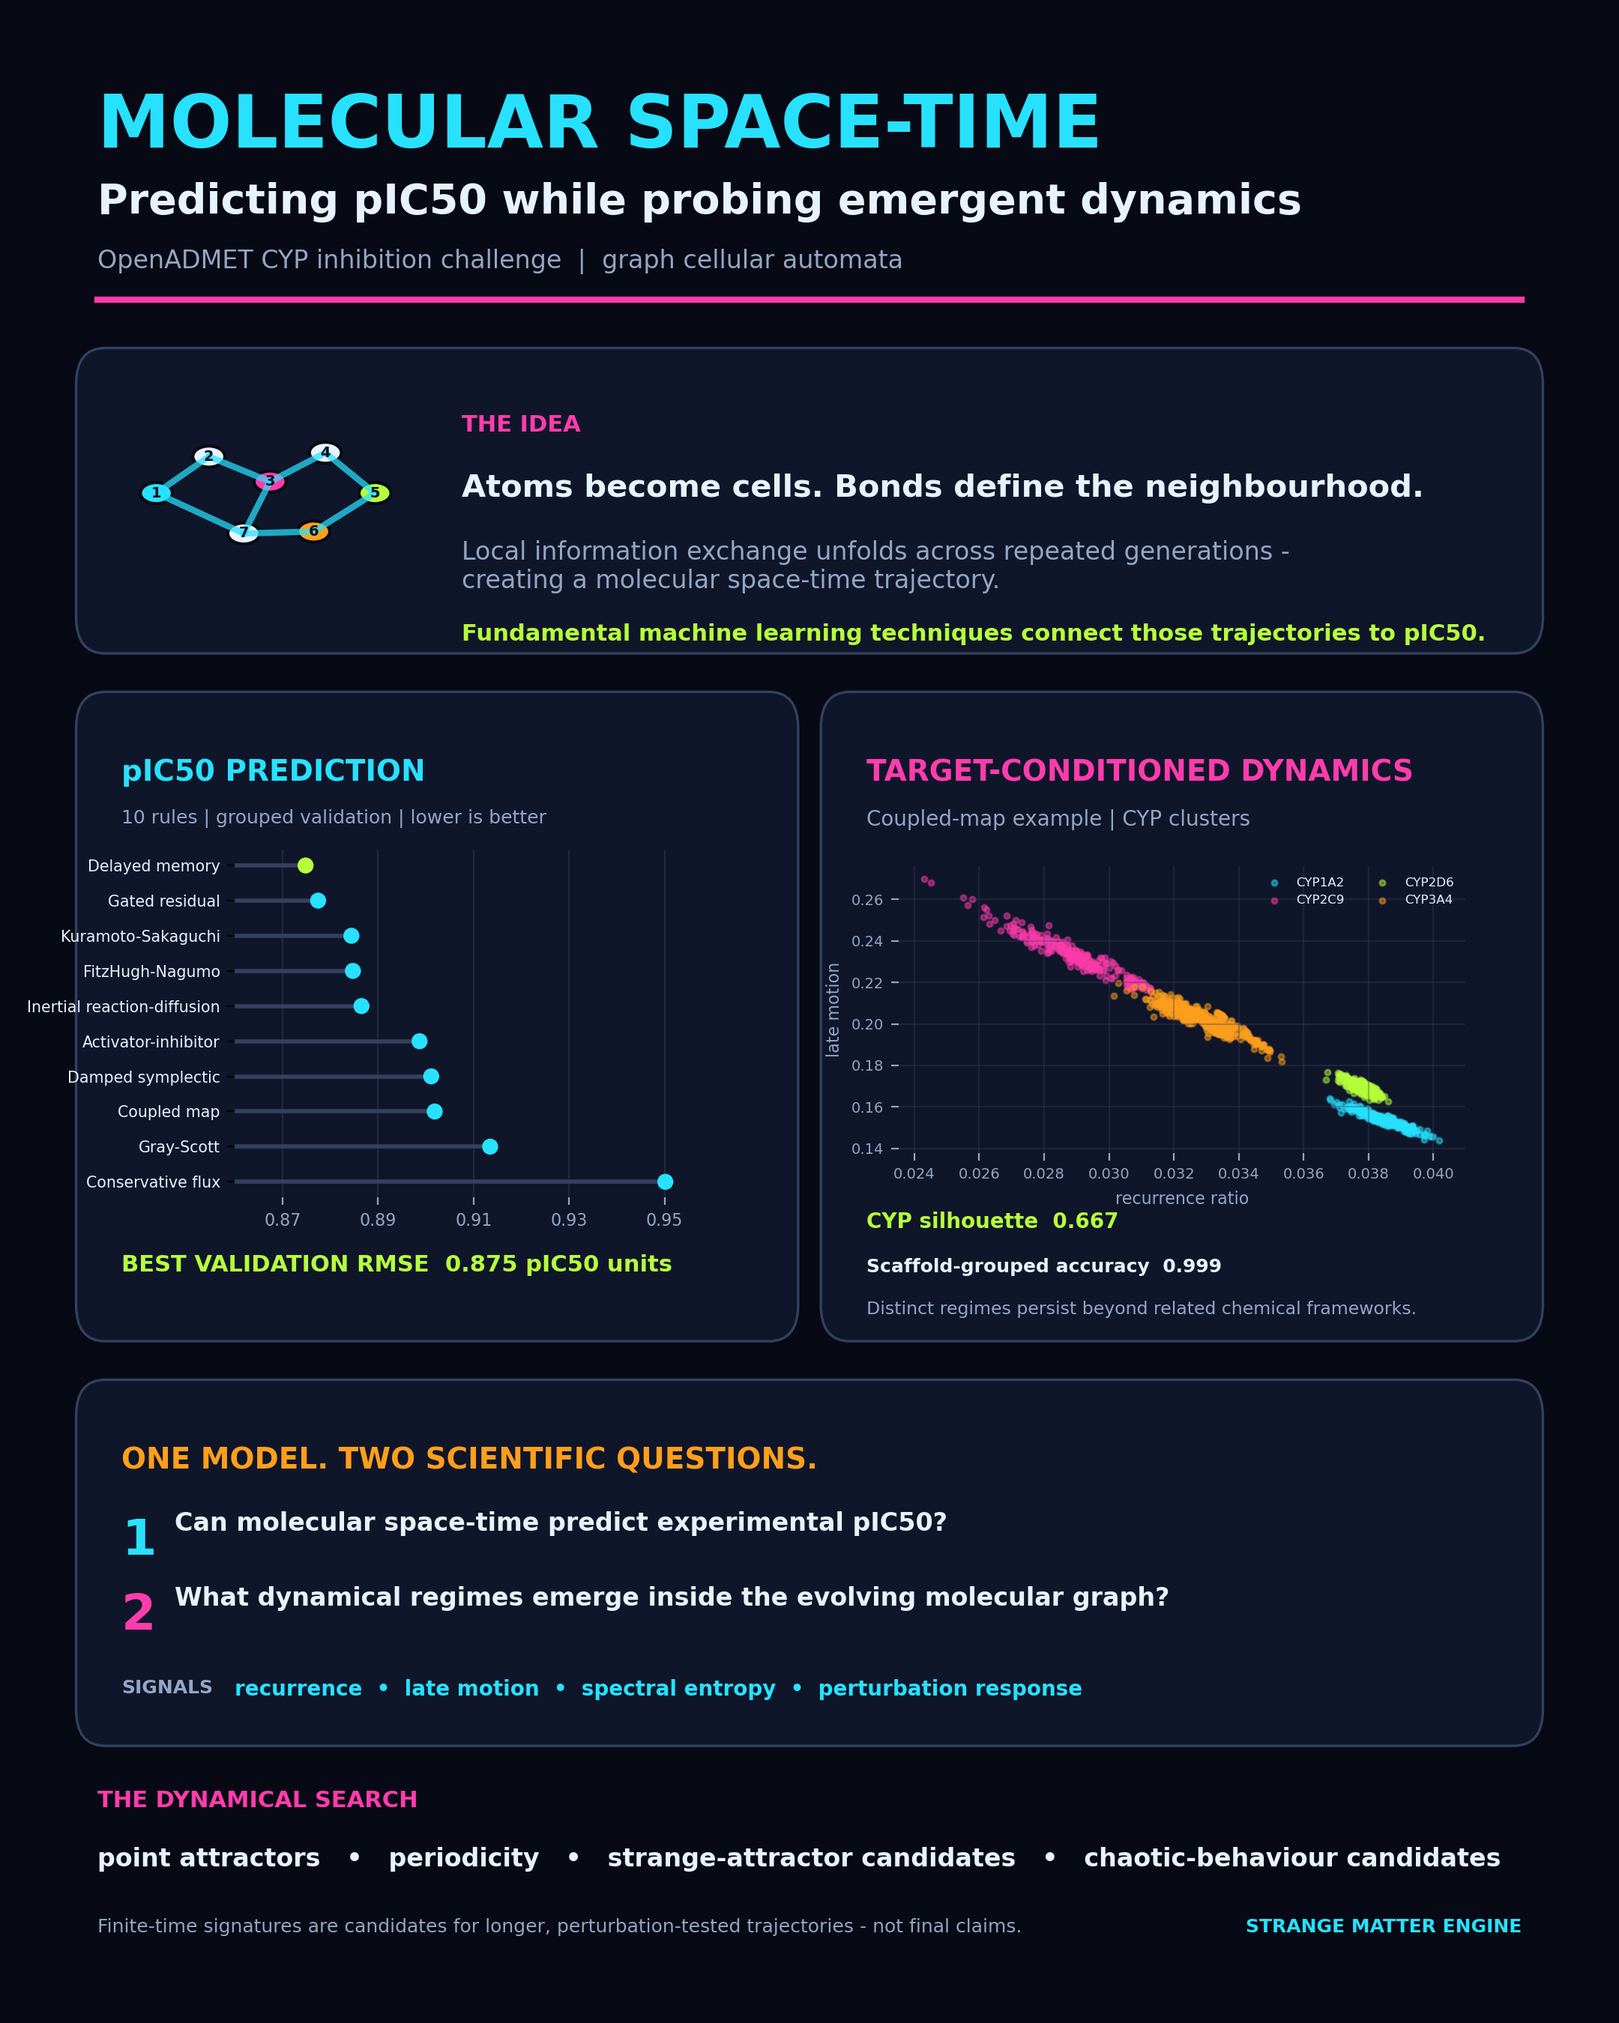
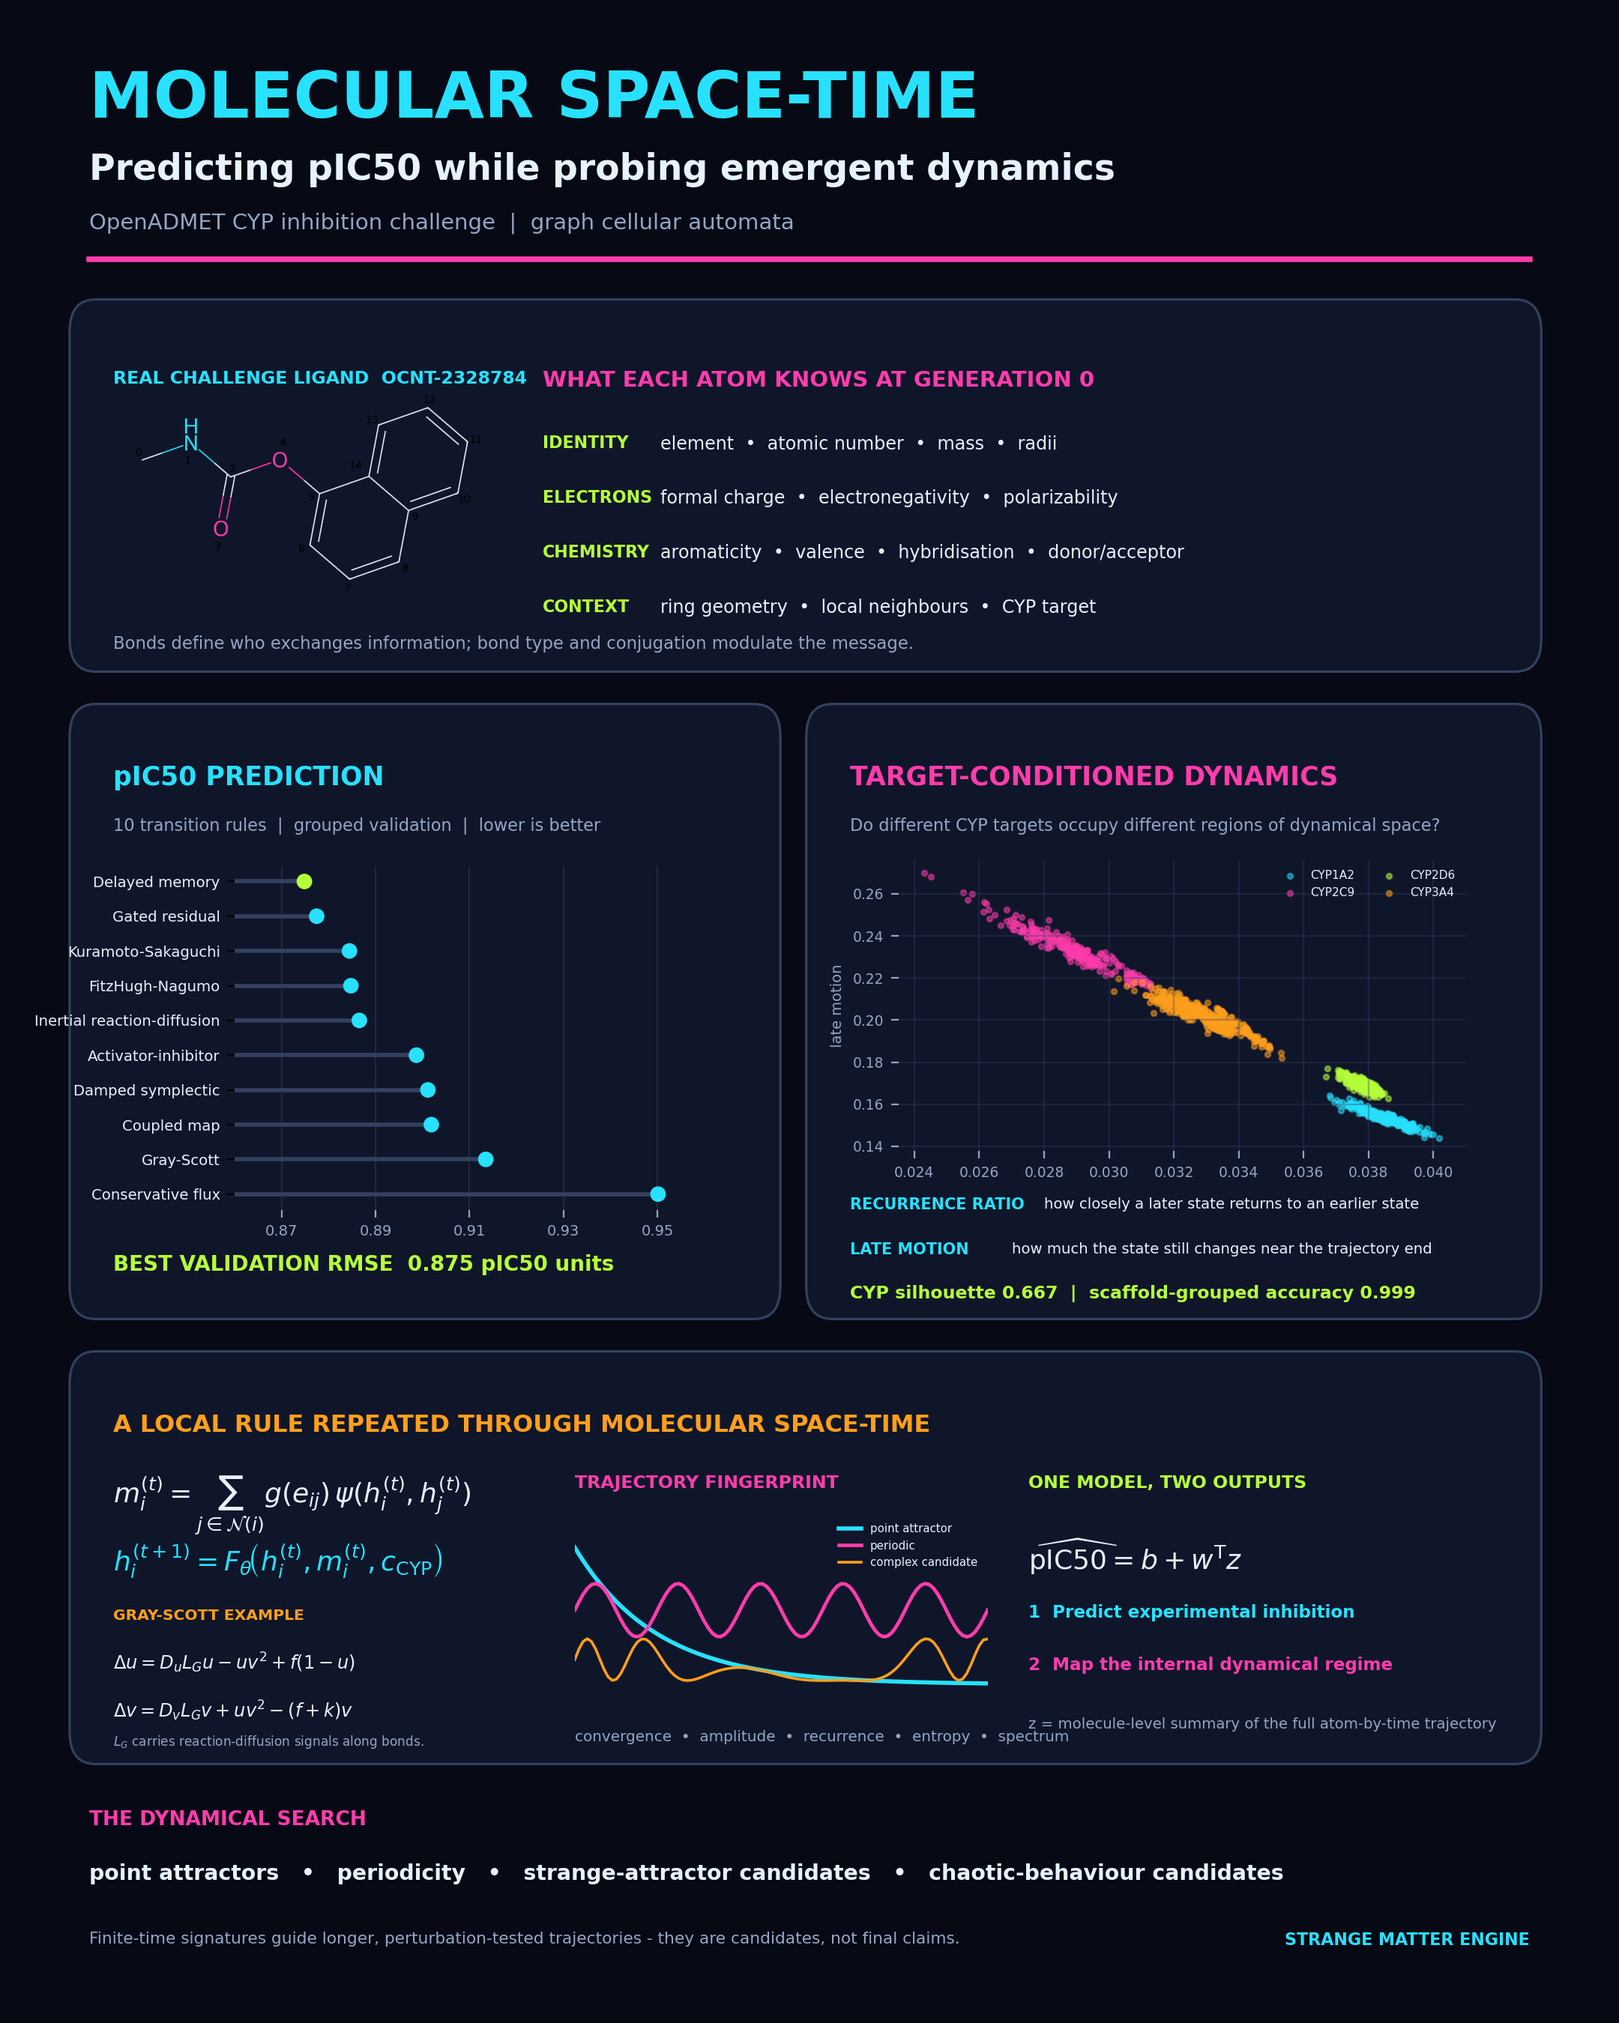
Expand molecular space-time LinkedIn infographic

diff --git a/scripts/build_linkedin_infographic.py b/scripts/build_linkedin_infographic.py
@@ -1,61 +1,65 @@
 #!/usr/bin/env python3
-"""Build a LinkedIn-ready Strange Matter Engine scientific infographic."""
+"""Build the detailed LinkedIn Strange Matter Engine infographic."""
 
-from pathlib import Path
+from io import BytesIO
 import json
+from pathlib import Path
 
 import matplotlib.pyplot as plt
-from matplotlib.patches import FancyBboxPatch, Circle
+from matplotlib.patches import FancyBboxPatch
 import numpy as np
 import pandas as pd
+from PIL import Image
+from rdkit import Chem
+from rdkit.Chem import rdDepictor
+from rdkit.Chem.Draw import rdMolDraw2D
 
 
 ROOT = Path(__file__).resolve().parents[1]
-OUT = ROOT / "output" / "figures" / "molecular_spacetime_linkedin_infographic.png"
-INK, PANEL, PANEL2, CYAN, MAGENTA, LIME, ORANGE, WHITE, MUTED, GRID = (
-    "#070914", "#10162A", "#151D36", "#27E1FF", "#FF3CAC", "#B6FF3B",
-    "#FF9F1C", "#E7F2FF", "#94A6C3", "#33415F",
+OUT = ROOT / "output/figures/molecular_spacetime_linkedin_infographic.png"
+INK, PANEL, CYAN, MAGENTA, LIME, ORANGE, WHITE, MUTED, GRID = (
+    "#070914", "#10162A", "#27E1FF", "#FF3CAC", "#B6FF3B", "#FF9F1C",
+    "#E7F2FF", "#94A6C3", "#33415F",
 )
 TARGETS = ["CYP1A2", "CYP2C9", "CYP2D6", "CYP3A4"]
 TARGET_COLOURS = dict(zip(TARGETS, (CYAN, MAGENTA, LIME, ORANGE)))
 RULE_NAMES = {
-    "activator_inhibitor": "Activator-inhibitor",
-    "conservative_graph_flux": "Conservative flux",
-    "coupled_map": "Coupled map",
-    "damped_symplectic": "Damped symplectic",
-    "delayed_memory": "Delayed memory",
-    "fitzhugh_nagumo": "FitzHugh-Nagumo",
-    "gated_residual": "Gated residual",
-    "gray_scott": "Gray-Scott",
+    "activator_inhibitor": "Activator-inhibitor", "conservative_graph_flux": "Conservative flux",
+    "coupled_map": "Coupled map", "damped_symplectic": "Damped symplectic",
+    "delayed_memory": "Delayed memory", "fitzhugh_nagumo": "FitzHugh-Nagumo",
+    "gated_residual": "Gated residual", "gray_scott": "Gray-Scott",
     "inertial_reaction_diffusion": "Inertial reaction-diffusion",
     "kuramoto_sakaguchi": "Kuramoto-Sakaguchi",
 }
+LIGAND_ID = "OCNT-2328784"
+LIGAND_SMILES = "CNC(=O)OC1=CC=CC2=CC=CC=C21"
 
 
-def panel(fig, rect, radius=.018):
-    patch = FancyBboxPatch((rect[0], rect[1]), rect[2], rect[3],
-                           boxstyle=f"round,pad=0.008,rounding_size={radius}",
-                           transform=fig.transFigure, facecolor=PANEL,
-                           edgecolor=GRID, linewidth=1.2, zorder=-5)
-    fig.patches.append(patch)
+def panel(fig, rect):
+    fig.patches.append(FancyBboxPatch(
+        (rect[0], rect[1]), rect[2], rect[3], boxstyle="round,pad=0.007,rounding_size=.016",
+        transform=fig.transFigure, facecolor=PANEL, edgecolor=GRID, linewidth=1.15, zorder=-5))
 
 
-def text(fig, x, y, value, size, colour=WHITE, weight="normal", ha="left", va="top"):
+def txt(fig, x, y, value, size, colour=WHITE, weight="normal", ha="left", va="top"):
     fig.text(x, y, value, fontsize=size, color=colour, fontweight=weight,
              ha=ha, va=va, family="DejaVu Sans")
 
 
-def molecule_icon(ax):
-    ax.set_xlim(0, 1); ax.set_ylim(0, 1); ax.axis("off")
-    points = np.array([[.12,.55],[.30,.74],[.51,.61],[.70,.76],[.87,.55],[.66,.35],[.42,.34]])
-    edges = [(0,1),(1,2),(2,3),(3,4),(4,5),(5,6),(6,2),(0,6)]
-    for i,j in edges:
-        ax.plot([points[i,0],points[j,0]],[points[i,1],points[j,1]],color=CYAN,lw=3,alpha=.72)
-    node_colours = [CYAN, WHITE, MAGENTA, WHITE, LIME, ORANGE, WHITE]
-    for (x,y),c in zip(points,node_colours):
-        ax.add_patch(Circle((x,y),.055,facecolor=c,edgecolor=INK,lw=1.5))
-    for k,(x,y) in enumerate(points):
-        ax.text(x,y,str(k+1),ha="center",va="center",fontsize=7,color=INK,fontweight="bold")
+def ligand_image():
+    mol = Chem.MolFromSmiles(LIGAND_SMILES)
+    rdDepictor.Compute2DCoords(mol)
+    drawer = rdMolDraw2D.MolDraw2DCairo(720, 380)
+    opts = drawer.drawOptions(); opts.clearBackground = False
+    opts.setBackgroundColour((7/255, 9/255, 20/255, 1))
+    opts.setSymbolColour((231/255, 242/255, 1, 1))
+    opts.setAtomPalette({
+        6: (231/255, 242/255, 1), 7: (39/255, 225/255, 1),
+        8: (1, 60/255, 172/255), 16: (182/255, 1, 59/255),
+    })
+    opts.addAtomIndices = True; opts.bondLineWidth = 2.3; opts.baseFontSize = .62
+    drawer.DrawMolecule(mol); drawer.FinishDrawing()
+    return np.asarray(Image.open(BytesIO(drawer.GetDrawingText())).convert("RGBA"))
 
 
 def load_rmse():
@@ -66,67 +70,101 @@ def load_rmse():
     return sorted(rows,key=lambda x:x[1])
 
 
-def main():
-    plt.rcParams.update({"figure.facecolor": INK, "savefig.facecolor": INK,
-                         "axes.facecolor": PANEL, "font.family": "DejaVu Sans"})
-    fig=plt.figure(figsize=(10.8,13.5),dpi=100)
-    fig.subplots_adjust(0,0,1,1)
-
-    text(fig,.06,.955,"MOLECULAR SPACE-TIME",35,CYAN,"bold")
-    text(fig,.06,.910,"Predicting pIC50 while probing emergent dynamics",20,WHITE,"bold")
-    text(fig,.06,.877,"OpenADMET CYP inhibition challenge  |  graph cellular automata",12,MUTED)
-    fig.lines.append(plt.Line2D([.06,.94],[.852,.852],transform=fig.transFigure,color=MAGENTA,lw=3))
-
-    panel(fig,[.055,.685,.89,.135])
-    icon=fig.add_axes([.075,.704,.18,.095]); molecule_icon(icon)
-    text(fig,.285,.795,"THE IDEA",11,MAGENTA,"bold")
-    text(fig,.285,.766,"Atoms become cells. Bonds define the neighbourhood.",15,WHITE,"bold")
-    text(fig,.285,.733,"Local information exchange unfolds across repeated generations -\ncreating a molecular space-time trajectory.",12,MUTED)
-    text(fig,.285,.692,"Fundamental machine learning techniques connect those trajectories to pIC50.",11,LIME,"bold")
-
-    panel(fig,[.055,.345,.43,.305]); panel(fig,[.515,.345,.43,.305])
-    text(fig,.075,.625,"pIC50 PREDICTION",14,CYAN,"bold")
-    text(fig,.075,.600,"10 rules | grouped validation | lower is better",9,MUTED)
-    rmse=load_rmse()
-    ax=fig.add_axes([.145,.408,.295,.172],facecolor=PANEL)
+def rmse_plot(fig):
+    rmse=load_rmse(); ax=fig.add_axes([.145,.402,.290,.170],facecolor=PANEL)
     rules=[RULE_NAMES[r] for r,_ in rmse][::-1]; vals=[v for _,v in rmse][::-1]
-    y=np.arange(len(rules)); colours=[LIME if abs(v-min(vals))<1e-8 else CYAN for v in vals]
-    ax.hlines(y,.86,vals,color=GRID,lw=2); ax.scatter(vals,y,c=colours,s=45,zorder=3)
-    ax.set_xlim(.86,.96); ax.set_yticks(y,rules,fontsize=7.4,color=WHITE)
-    ax.set_xticks([.87,.89,.91,.93,.95]); ax.tick_params(axis="x",colors=MUTED,labelsize=8)
-    ax.grid(axis="x",color=GRID,alpha=.45); ax.spines[:].set_visible(False)
-    text(fig,.075,.380,f"BEST VALIDATION RMSE  {min(vals):.3f} pIC50 units",11,LIME,"bold")
+    y=np.arange(len(rules)); colours=[LIME if v==min(vals) else CYAN for v in vals]
+    ax.hlines(y,.86,vals,color=GRID,lw=2); ax.scatter(vals,y,c=colours,s=42,zorder=3)
+    ax.set_xlim(.86,.96); ax.set_yticks(y,rules,fontsize=7.1,color=WHITE)
+    ax.set_xticks([.87,.89,.91,.93,.95]); ax.tick_params(axis="x",colors=MUTED,labelsize=7)
+    ax.grid(axis="x",color=GRID,alpha=.42); ax.spines[:].set_visible(False)
+    return min(vals)
 
-    text(fig,.535,.625,"TARGET-CONDITIONED DYNAMICS",14,MAGENTA,"bold")
-    text(fig,.535,.600,"Coupled-map example | CYP clusters",10,MUTED)
+
+def dynamics_plot(fig):
     path=ROOT/"results/production_coupled_map_challenge_aligned_v5/runs/final_model/validation_dynamics.csv"
-    d=pd.read_csv(path)
-    ax2=fig.add_axes([.555,.430,.35,.142],facecolor=PANEL)
+    d=pd.read_csv(path); ax=fig.add_axes([.555,.431,.350,.144],facecolor=PANEL)
     for target in TARGETS:
         q=d[d.cyp_target==target]
-        ax2.scatter(q.recurrence_ratio,q.late_motion,s=7,alpha=.45,c=TARGET_COLOURS[target],label=target)
-    ax2.set_xlabel("recurrence ratio",color=MUTED,fontsize=8); ax2.set_ylabel("late motion",color=MUTED,fontsize=8)
-    ax2.tick_params(colors=MUTED,labelsize=7); ax2.grid(color=GRID,alpha=.35); ax2.spines[:].set_visible(False)
-    ax2.legend(loc="best",frameon=False,labelcolor=WHITE,fontsize=6,ncol=2)
-    text(fig,.535,.401,"CYP silhouette  0.667",10,LIME,"bold")
-    text(fig,.535,.378,"Scaffold-grouped accuracy  0.999",9,WHITE,"bold")
-    text(fig,.535,.357,"Distinct regimes persist beyond related chemical frameworks.",8.5,MUTED)
+        ax.scatter(q.recurrence_ratio,q.late_motion,s=6,alpha=.48,c=TARGET_COLOURS[target],label=target)
+    ax.set_xlabel(""); ax.set_ylabel("late motion",color=MUTED,fontsize=7)
+    ax.tick_params(colors=MUTED,labelsize=6.7); ax.grid(color=GRID,alpha=.35); ax.spines[:].set_visible(False)
+    ax.legend(loc="upper right",frameon=False,labelcolor=WHITE,fontsize=5.5,ncol=2)
 
-    panel(fig,[.055,.145,.89,.165])
-    text(fig,.075,.285,"ONE MODEL. TWO SCIENTIFIC QUESTIONS.",14,ORANGE,"bold")
-    text(fig,.075,.250,"1",24,CYAN,"bold"); text(fig,.108,.253,"Can molecular space-time predict experimental pIC50?",12,WHITE,"bold")
-    text(fig,.075,.213,"2",24,MAGENTA,"bold"); text(fig,.108,.216,"What dynamical regimes emerge inside the evolving molecular graph?",12,WHITE,"bold")
-    text(fig,.075,.170,"SIGNALS",9,MUTED,"bold")
-    text(fig,.145,.170,"recurrence  •  late motion  •  spectral entropy  •  perturbation response",10,CYAN,"bold")
 
-    text(fig,.06,.115,"THE DYNAMICAL SEARCH",11,MAGENTA,"bold")
-    text(fig,.06,.087,"point attractors   •   periodicity   •   strange-attractor candidates   •   chaotic-behaviour candidates",12,WHITE,"bold")
-    text(fig,.06,.052,"Finite-time signatures are candidates for longer, perturbation-tested trajectories - not final claims.",9,MUTED)
-    text(fig,.94,.052,"STRANGE MATTER ENGINE",9,CYAN,"bold",ha="right")
+def trajectory_examples(fig):
+    ax=fig.add_axes([.355,.158,.255,.094],facecolor=PANEL)
+    t=np.linspace(0,1,100)
+    ax.plot(t,.72*np.exp(-5*t)+.10,color=CYAN,lw=2,label="point attractor")
+    ax.plot(t,.49+.14*np.sin(10*np.pi*t),color=MAGENTA,lw=1.7,label="periodic")
+    ax.plot(t,.23+.11*np.sin(22*t+5*np.sin(6*t)),color=ORANGE,lw=1.3,label="complex candidate")
+    ax.set(xlim=(0,1),ylim=(0,1)); ax.set_xticks([]); ax.set_yticks([]); ax.spines[:].set_visible(False)
+    ax.legend(frameon=False,labelcolor=WHITE,fontsize=5.4,ncol=1,loc="upper right")
 
-    OUT.parent.mkdir(parents=True,exist_ok=True)
-    fig.savefig(OUT,dpi=200)
-    plt.close(fig)
+
+def main():
+    plt.rcParams.update({"figure.facecolor": INK,"savefig.facecolor": INK,"axes.facecolor": PANEL,
+                         "font.family":"DejaVu Sans","mathtext.fontset":"dejavusans"})
+    fig=plt.figure(figsize=(10.8,13.5),dpi=100); fig.subplots_adjust(0,0,1,1)
+
+    txt(fig,.055,.966,"MOLECULAR SPACE-TIME",31,CYAN,"bold")
+    txt(fig,.055,.925,"Predicting pIC50 while probing emergent dynamics",17,WHITE,"bold")
+    txt(fig,.055,.895,"OpenADMET CYP inhibition challenge  |  graph cellular automata",10.5,MUTED)
+    fig.lines.append(plt.Line2D([.055,.945],[.872,.872],transform=fig.transFigure,color=MAGENTA,lw=2.7))
+
+    # Real molecule and chemical encoding.
+    panel(fig,[.050,.675,.895,.170])
+    mol_ax=fig.add_axes([.063,.695,.255,.122]); mol_ax.imshow(ligand_image()); mol_ax.axis("off")
+    txt(fig,.070,.817,f"REAL CHALLENGE LIGAND  {LIGAND_ID}",8.5,CYAN,"bold")
+    txt(fig,.335,.817,"WHAT EACH ATOM KNOWS AT GENERATION 0",10.5,MAGENTA,"bold")
+    txt(fig,.335,.785,"IDENTITY",8,LIME,"bold"); txt(fig,.408,.785,"element  •  atomic number  •  mass  •  radii",8.6,WHITE)
+    txt(fig,.335,.758,"ELECTRONS",8,LIME,"bold"); txt(fig,.408,.758,"formal charge  •  electronegativity  •  polarizability",8.6,WHITE)
+    txt(fig,.335,.731,"CHEMISTRY",8,LIME,"bold"); txt(fig,.408,.731,"aromaticity  •  valence  •  hybridisation  •  donor/acceptor",8.6,WHITE)
+    txt(fig,.335,.704,"CONTEXT",8,LIME,"bold"); txt(fig,.408,.704,"ring geometry  •  local neighbours  •  CYP target",8.6,WHITE)
+    txt(fig,.070,.686,"Bonds define who exchanges information; bond type and conjugation modulate the message.",8.2,MUTED)
+
+    # Prediction and target-conditioned dynamics.
+    panel(fig,[.050,.355,.425,.290]); panel(fig,[.505,.355,.440,.290])
+    txt(fig,.070,.622,"pIC50 PREDICTION",12.5,CYAN,"bold")
+    txt(fig,.070,.596,"10 transition rules  |  grouped validation  |  lower is better",8.1,MUTED)
+    best=rmse_plot(fig)
+    txt(fig,.070,.380,f"BEST VALIDATION RMSE  {best:.3f} pIC50 units",10,LIME,"bold")
+
+    txt(fig,.525,.622,"TARGET-CONDITIONED DYNAMICS",12.5,MAGENTA,"bold")
+    txt(fig,.525,.596,"Do different CYP targets occupy different regions of dynamical space?",8.1,MUTED)
+    dynamics_plot(fig)
+    txt(fig,.525,.408,"RECURRENCE RATIO",7.5,CYAN,"bold")
+    txt(fig,.645,.408,"how closely a later state returns to an earlier state",7.1,WHITE)
+    txt(fig,.525,.386,"LATE MOTION",7.5,CYAN,"bold")
+    txt(fig,.625,.386,"how much the state still changes near the trajectory end",7.1,WHITE)
+    txt(fig,.525,.365,"CYP silhouette 0.667  |  scaffold-grouped accuracy 0.999",8.5,LIME,"bold")
+
+    # Mathematics and trajectory fingerprint.
+    panel(fig,[.050,.135,.895,.190])
+    txt(fig,.070,.301,"A LOCAL RULE REPEATED THROUGH MOLECULAR SPACE-TIME",11.5,ORANGE,"bold")
+    txt(fig,.070,.271,r"$m_i^{(t)}=\sum_{j\in\mathcal{N}(i)}g(e_{ij})\,\psi(h_i^{(t)},h_j^{(t)})$",13,WHITE)
+    txt(fig,.070,.238,r"$h_i^{(t+1)}=F_\theta\!\left(h_i^{(t)},m_i^{(t)},c_{\mathrm{CYP}}\right)$",13,CYAN)
+    txt(fig,.070,.205,"GRAY-SCOTT EXAMPLE",7.3,ORANGE,"bold")
+    txt(fig,.070,.184,r"$\Delta u=D_uL_Gu-uv^2+f(1-u)$",8.7,WHITE)
+    txt(fig,.070,.160,r"$\Delta v=D_vL_Gv+uv^2-(f+k)v$",8.7,WHITE)
+    txt(fig,.070,.143,r"$L_G$ carries reaction-diffusion signals along bonds.",6.1,MUTED)
+
+    txt(fig,.355,.271,"TRAJECTORY FINGERPRINT",8.5,MAGENTA,"bold")
+    trajectory_examples(fig)
+    txt(fig,.355,.145,"convergence  •  amplitude  •  recurrence  •  entropy  •  spectrum",7.2,MUTED)
+
+    txt(fig,.635,.271,"ONE MODEL, TWO OUTPUTS",8.5,LIME,"bold")
+    txt(fig,.635,.240,r"$\widehat{\mathrm{pIC50}}=b+w^\mathsf{T}z$",13,WHITE)
+    txt(fig,.635,.207,"1  Predict experimental inhibition",8.3,CYAN,"bold")
+    txt(fig,.635,.181,"2  Map the internal dynamical regime",8.3,MAGENTA,"bold")
+    txt(fig,.635,.151,"z = molecule-level summary of the full atom-by-time trajectory",7.1,MUTED)
+
+    txt(fig,.055,.105,"THE DYNAMICAL SEARCH",9.5,MAGENTA,"bold")
+    txt(fig,.055,.079,"point attractors   •   periodicity   •   strange-attractor candidates   •   chaotic-behaviour candidates",10.2,WHITE,"bold")
+    txt(fig,.055,.045,"Finite-time signatures guide longer, perturbation-tested trajectories - they are candidates, not final claims.",7.8,MUTED)
+    txt(fig,.945,.045,"STRANGE MATTER ENGINE",8,CYAN,"bold",ha="right")
+
+    OUT.parent.mkdir(parents=True,exist_ok=True); fig.savefig(OUT,dpi=200); plt.close(fig)
     print(OUT)
 
 
